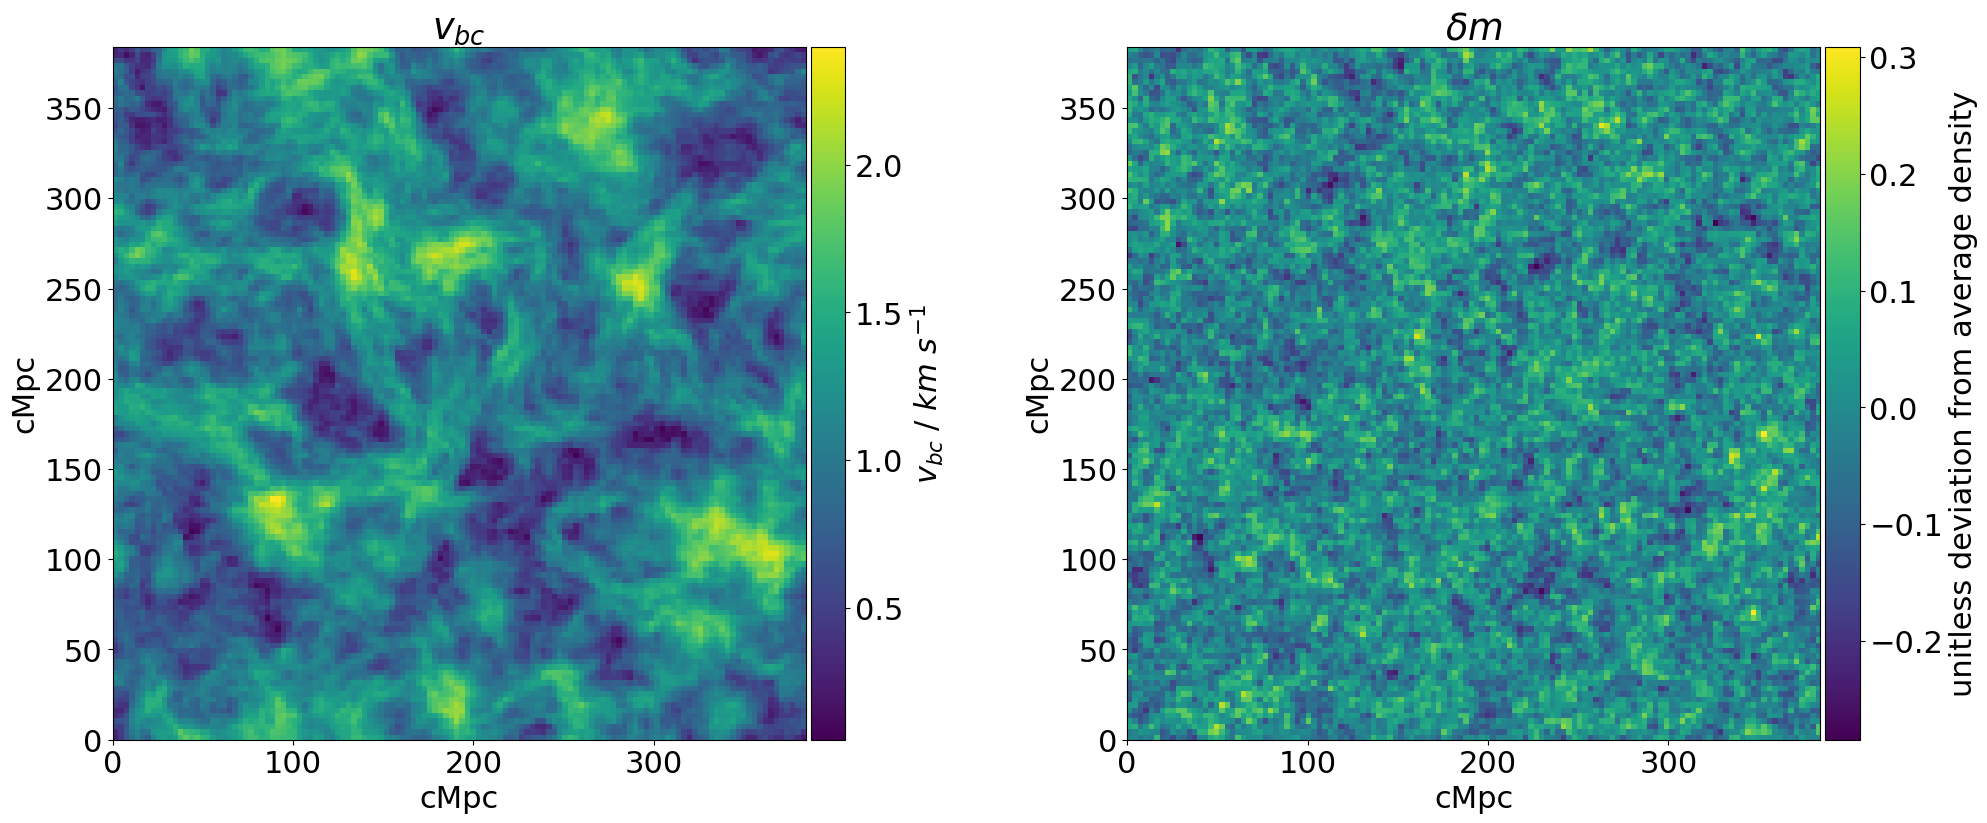
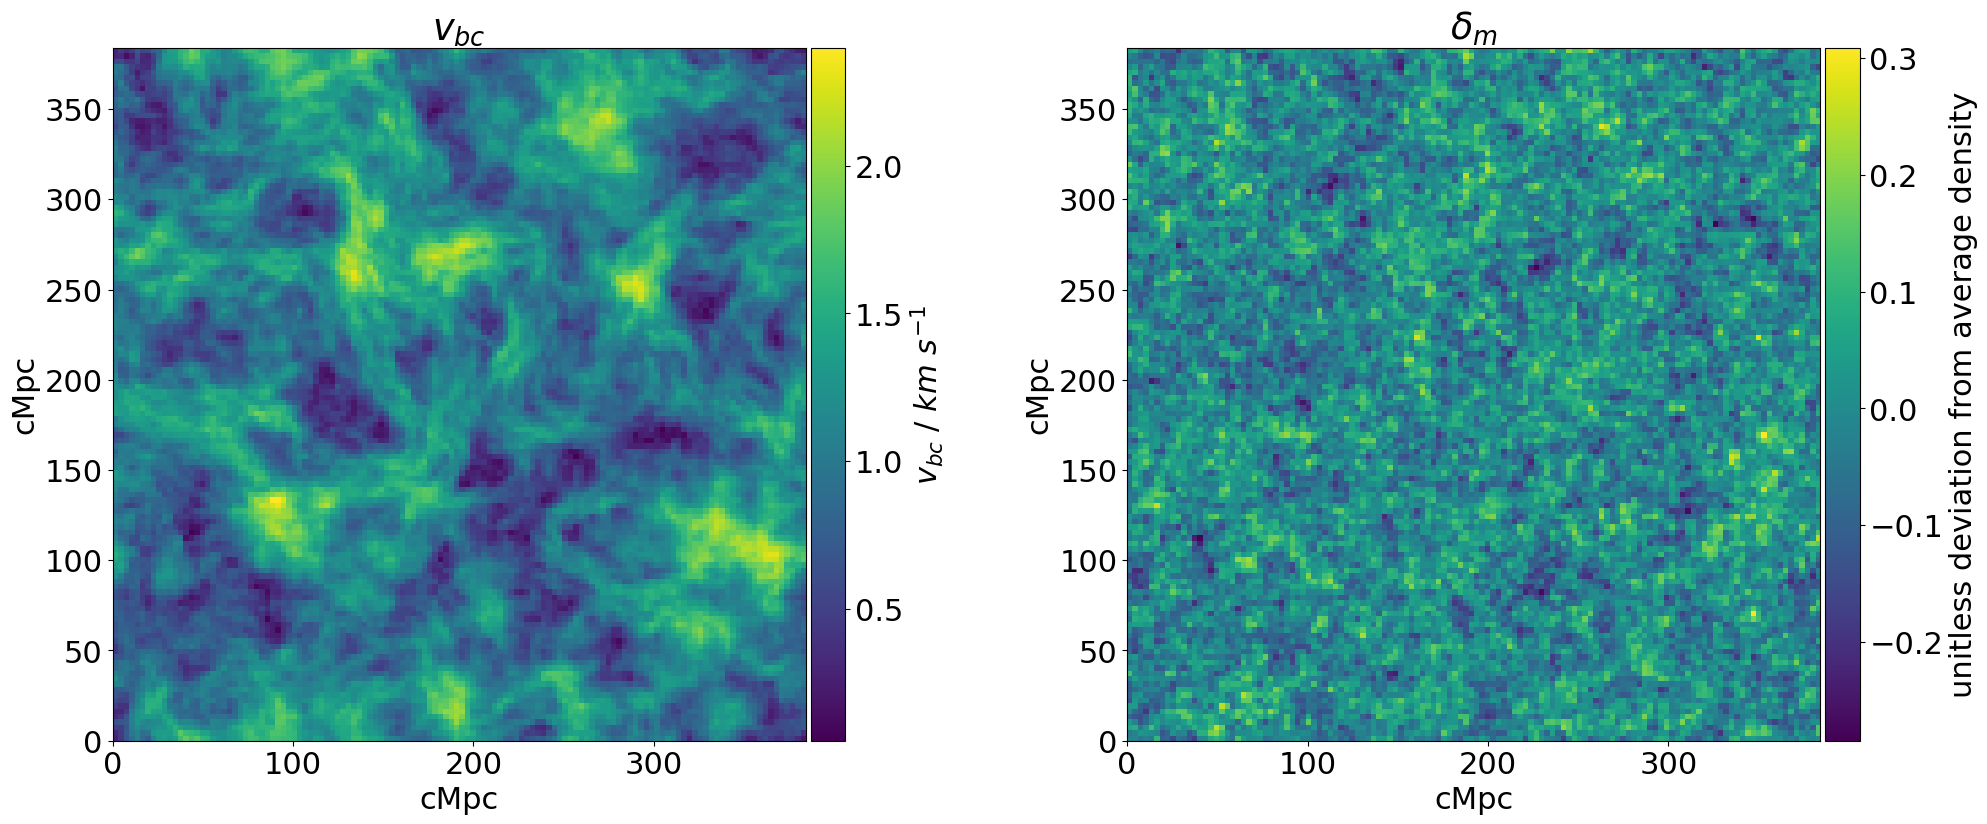
draft2 commit

diff --git a/main.tex b/main.tex
@@ -49,80 +49,89 @@
 \section{Introduction}
 % As the simplest atom, hydrogen is of significant importance to 21st century astrophysicists. 
 
-Because of its overwhelming dominance over other elements in its abundance, mapping the distribution of atomic hydrogen has the ability to inform the processes of structure formation, as well as shed light on the processes and events which occurred during the cosmic Dark Ages and Epoch of Reionization -- a period spanning between 375,000 years and 1 billion years after the big bang \cite{Pritchard_2012}. Conveniently, hydrogen occasionally emits photons of wavelength 21cm, resulting in the aptly named field of 21cm cosmology.
+% cosmic Dark Ages, the Cosmic Dawn, and the Epoch of Reionization -- a
+
+ % during which the first stars are born
+
+As the most abundant element in the Universe, mapping the distribution of atomic hydrogen has the ability to inform the processes of structure formation, as well as shed light on the processes and events which occurred during the period spanning between 375,000 years and 1 billion years after the big bang \cite{Pritchard_2012}. Conveniently, hydrogen occasionally interacts with photons of wavelength 21cm, allowing 21cm cosmologists to measure its density.
 
 % Conveniently, hydrogen occasionally emits photons, which can be measured from Earth. This emission is produced by a spin-flip transition -- if the atom first starts with its proton's spin and electron's spin aligned, the electron sometimes spontaneously flips so that its spin is anti-aligned with the protons. This results in a photon of wavelength 21cm, and hence the aptly named field of 21cm cosmology.
 
 % Combined with physical data such as those taken by the HERA, CHIME, and REACH, the simulations have the power to place constraints on viable theories.
 
-The 21cm signal is of such importance that numerous simulations have been written to predict its signal. One such simulation, named \code{21cmSPACE}\footnote{This name, which stands for 21-cm Semi-numerical Predictions Across Cosmic Epochs, was not given until mid-2023; older papers referring to this code do not include this name.} \cite{Fialkov_2014}, has been developed by the Cambridge Cosmic Dawn group and uses a semi-numerical approach to achieve balance between accuracy and efficiency. At the basic level, \code{21cmSPACE} takes a set of initial conditions and evolves them through time to provide the present-day predicted 21cm global signal and 21cm power spectrum. This signal depends on many factors, both local and non-local, which are all into account by employing the following \cite{gessey-jones_2024}:
+The 21cm signal is of such importance that numerous simulations have been written to predict its signal. One such simulation, \code{21cmSPACE}\footnote{This name, which stands for 21-cm Semi-numerical Predictions Across Cosmic Epochs, was not given until mid-2023; older papers referring to this code do not include this name.}, has been developed by the Cambridge Cosmic Dawn group \cite{Fialkov_2014}\cite{Visbal_2012}. At the basic level, \code{21cmSPACE} takes initial conditions and evolves them through time to provide the present-day predicted 21cm global signal and 21cm power spectrum, among other astrophysical observables. This is calculated through the following method \cite{gessey-jones_2024}:
 
 \begin{enumerate}
     \item A spatial volume is divided into cubical voxels of a specific side length.
 
-    \item Large-scale fields are initialized at the first time step from pre-specified initial conditions, or computed from values at the previous time step.
+    \item Large-scale fields such as the Lyman-Werner field are initialized at the first time step from initial conditions, or computed from the previous time step.
 
-    \item These large-scale fields are used by sub-grid model functions within each voxel to calculate local properties.
+    \item These large-scale fields are used by sub-grid models within each voxel to calculate local properties, such as star formation prescription.
 
-    \item The local properties are then used to inform the large-scale fields, propagated by non-local processes.
+    \item The local properties are then used to inform the large-scale fields, propagated by non-local processes such as radiative transfer.
 
-    \item Steps 2-4 are iterated until the simulation is complete.
+    \item Steps 2-4 are iterated until termination.
 \end{enumerate}
 
 % At present, the evolution timesteps of \code{21cmSPACE} is hard-coded between simulations. Operating in redshift space, the simulation begins at $z = 50$, at which point the Universe is described by linear perturbation theory with negligible halo and star formation. This permits the use of the \code{CAMB} and \code{Recfast} codes for the creation of initial conditions. The redshift then decreases by integer amounts until $z = 15$, at which point the timestep refines to a resolution of $\Delta z = 0.1$, decreasing until the simulation terminates at $z = 6$. 
 
-Temporally, \code{21cmSPACE} operates in redshift space, with hard-coded endpoints beginning at $z = 50$ and ending at $z = 6$. At $z = 50$, the Universe is described by linear perturbation theory with negligible halo and star formation, permitting the use of the \code{CAMB} and \code{Recfast} codes for the creation of initial conditions \cite{gessey-jones_2024}.
+Temporally, \code{21cmSPACE} operates in redshift space with hard-coded endpoints, evolving from $z = 50$ to $z = 6$. Across these redshifts, the Universe is described by linear perturbation theory. At $z = 50$, there is also negligible halo and star formation, permitting the use of the \code{CAMB}\footnote{The Code for Anisotropies in the Microwave Background is a code for calculating various cosmological quantities, including power spectra and transfer functions.} and \code{Recfast}\footnote{Recfast provides fast approximations for calculations of observables resulting from processes during the Epoch of Recombination, the era immediately preceding the period informed by 21cm astronomy.} codes for the creation of initial conditions \cite{gessey-jones_2024}.
 
-Spatially, the total size of \code{21cmSPACE} can be set to one of $384^3 \text{ cMpc}$, $768^3 \text{ cMpc}$, and $1536^3 \text{ cMpc}$ by changing the number of $3 \text{ cMpc}$ side-length voxels to $128^3$, $256^3$, and $512^3$ respectively \cite{dhandha_2022}. This allows \code{21cmSPACE} to be potentially useful in the forecasting for the SKA, whose beam covers a large enough square-angle at high redshifts to require this increased box size. The voxel side-length itself, however, is currently hard-coded, which is disadvantageous since a single execution of \code{21cmSPACE} at $512^3$ voxels costs upwards of 23000 CPU hours. On Cambridge's Wilkes3 HPC cluster, this costs almost $\pounds 400$ and takes approximately 2 weeks to complete \cite{dhandha_2022}. Therefore, although the use of \code{21cmSPACE} for SKA forecasting is possible in principle, the large number of simulations needed combined with the high cost of each simulation renders the package nonviable in practice.
+Spatially, the total size of \code{21cmSPACE} can be set to one of $384^3 \text{ cMpc}$, $768^3 \text{ cMpc}$, and $1536^3 \text{ cMpc}$ by changing the number of $3 \text{ cMpc}$ side-length voxels to $128^3$, $256^3$, and $512^3$ respectively \cite{dhandha_2022}. This largest simulation size of $1536^3 \text{ cMpc}$ allows \code{21cmSPACE} to be useful in the forecasting for the SKA \footnote{The Square Kilometre Array (SKA) experiment is a next generation 21cm project which expects to detect first light in 2027.}, whose beam covers a large enough square-angle at high redshifts to require this volume. The voxel side-length itself, however, is currently hard-coded, which is disadvantageous since requiring $512^3$ voxels to simulate a $1536^3 \text{ cMpc}$ box causes a single execution to cost upwards of 23000 CPU hours. Therefore, although it is possible to use \code{21cmSPACE} to forecast for experiments such as the SKA, the large number of simulations needed to adequately explore the parameter space of initial conditions renders the package nonviable in practice.
 
-Additionally, the initial conditions are currently calculated from fixed parameters. In particular, \code{21cmSPACE} assumes the Planck 2013 best-fit $\Lambda$CDM model as a fixed cosmology \cite{gessey-jones_2024}. The initial overdensity field $\delta m$ and baryon-dark matter relative velocity $v_{bc}$ are computed from the matter power spectrum and velocity power spectrum as output from \code{CAMB} and the initial gas temperature and ionization fraction are calculated from the outputs provided by \code{Recfast}, both assuming Planck 2013.
+ % On Cambridge's Wilkes3 HPC cluster, this costs hundreds of GBP, takes approximately 2 weeks to complete, and contributes $175 \text{ gCO}_2\text{eq}$ of greenhouse gases \cite{dhandha_2022}.
 
-The goals of this research project are twofold: 1. to allow the variation of voxel size in the spatial division of the simulation box, as well as 2. to allow implementation of cosmologies other than Planck 2013 in the initialization of starting values. Success in the first objective will enable \code{21cmSPACE} to simulate large spatial volumes with fewer voxels, which will drastically decrease runtime and enable \code{21cmSPACE} to be used for SKA forecasting. Of course, changing the voxel size will inevitably alter the final result of the simulation; this will therefore need to be rigorously tested as part of the project. Achieving the second objective will create a pipeline from a given cosmology to a predicted 21cm signal. Hence, if the predicted signal does not fall within the errors for current experimental data, the cosmology can be rejected. In other words, by making possible the variation of cosmology, \code{21cmSPACE} can be used to verify or reject theories.
+Additionally, the initial conditions are currently calculated from fixed parameters. In particular, \code{21cmSPACE} assumes the Planck 2015 best-fit $\Lambda$CDM model as a fixed cosmology \cite{Planck_2016}. The initial overdensity field $\delta_m$ and baryon-dark matter relative velocity $v_{bc}$ are computed \cite{Fialkov_2012} from the matter power spectrum and velocity power spectrum as output from \code{CAMB}, and the initial gas temperature and ionization fraction are calculated from the outputs provided by \code{Recfast}, both assuming Planck 2015.
+
+\section{Project Objectives}
+
+The goals of this research project are twofold: 1. to allow the variation of voxel size in the spatial division of the simulation, as well as 2. to allow implementation of cosmologies other than Planck 2015 in the initialization of starting values. 
+
+Success in the first objective will enable \code{21cmSPACE} to simulate large spatial volumes with fewer voxels,drastically decreasing runtime and enabling \code{21cmSPACE} to be used for SKA forecasting. Of course, changing the voxel size can alter the final result of the simulation; this will therefore need to be rigorously tested as part of the project to ensure that accuracy in the observables is unaffected. 
+
+Achieving the second objective will create a pipeline from a given cosmology to a predicted 21cm signal. Hence, if the predicted signal does not fall within the errors for current experimental data, the cosmology can be rejected. In other words, by making possible the variation of cosmology, \code{21cmSPACE} can be used to verify or reject theories.
 
 \section{Project progress}
-Progress has primarily been focused on achieving the second objective. The initial conditions of \code{21cmSPACE} at $z = 50$ are derived from four quantities: the matter power spectrum and velocity power spectrum as generated by  \code{CAMB}, and the hydrogen ionization history and matter temperature history as generated by \code{Recfast}. 
+
+
+% The initial conditions of \code{21cmSPACE} at $z = 50$ are derived from four quantities: the matter power spectrum and velocity power spectrum as generated by  \code{CAMB}, and the hydrogen ionization history and matter temperature history as generated by \code{Recfast}. 
 
 % These power spectra and histories must then be used to calculate a series of precomputed grids for input into the initialization of \code{21cmSPACE}. These precomputed grids contain, for each cell, the following four quantities: the matter overdensity $\delta m$, the baryon-dark matter relative velocity $v_{bc}$, the matter temperature, and the ionization fraction. It is these precomputed grids that feed directly into \code{21cmSPACE} for initialization.
 
 % The process then consists of two macroscopic steps: the cosmological inputs to \code{CAMB} and \code{Recfast} are first changed, which alters the outputs of these codes; these outputs must then be made compatible with the inputs of \code{21cmSPACE} such that \code{21cmSPACE} can be executed using the specified cosmology. 
 
-As of now, code has been developed to alter the cosmological inputs to \code{CAMB} and \code{Recfast}, resulting in the possibility of conveniently recalculating the functions specifying the four quantities required for computing initial conditions. The interactions between functions are properly object-oriented such that new cosmologies can be defined simply by creating an instance of the \code{cosmology} class, as shown below: 
+Progress has primarily been focused on achieving the second objective. As of now, code has been developed to alter the cosmological inputs to \code{CAMB} and \code{Recfast}, making it convenient to recalculate initial conditions. The interactions between functions are properly object-oriented such that new cosmologies can be defined simply by creating an instance of the \code{cosmology} class, which takes the following parameters at their present-day values as  as initialization variables:
 
-\begin{verbatim}
-    from astropy.cosmology import Planck13
+\begin{itemize}
+    \item  Hubble parameter $H_0$
 
-    default_cosmology = Planck13
-    
-    class cosmology:
-        def __init__(self, 
-                     name=default_cosmology.name, 
-                     h=default_cosmology.h, 
-                     H0=default_cosmology.H0, 
-                     Ob0=default_cosmology.Ob0, 
-                     Odm0=default_cosmology.Odm0, 
-                     Ok0=default_cosmology.Ok0, 
-                     Tcmb0=default_cosmology.Tcmb0.value):
-            
-            self.name = name
-            self.h = h
-            self.H0 = H0
-            self.Ob0 = Odm0
-            self.Ok0 = Ok0
-            self.Tcmb0 = Tcmb0 # must be dictionary type. 
-                               # key is unimportant but 
-                               # astropy defaults to 'temperature'
-\end{verbatim}
+    \item baryonic matter density $\Omega_{\text{b},0}$
+
+    \item dark matter density $\Omega_{\text{dm},0}$
+
+    \item effective curvature density $\Omega_{\text{k},0}$
+
+     \item CMB temperature $T_{\text{cmb}, 0}$.
+\end{itemize}
 
 This class is primarily organizational, written with both the intention of emulating a subset of the attributes attached to \code{Astropy} pre-defined cosmologies of datatype \code{FlatLambdaCDM} class, as well as being compatible with code written for changing \code{CAMB} and \code{Recfast} parameters. Changing these cosmologies results in altered initial conditions for \code{CAMB} outputs, as shown in Fig. \ref{fig:camb_output_plots}. In particular, voxel side-lengths of $3 \text{ cMpc}$ correspond to $k$ of order $10^{-1} \text{Mpc}^{-1}$ with larger side-lengths, as is one aim of this project, corresponding to smaller $k$ values where the differences induced by varied cosmologies are even more significant. On the other hand, varied cosmology has no effect on the ionization fraction nor the matter temperature, as shown in Fig. \ref{fig:recfast_output_plots}. 
 
-Taking the \code{CAMB} power spectra, \code{21cmSPACE} can be used to generate the initial Gaussian random fields for initialization. Taking slices of the 3D boxes allows visualization of these fields as in Fig. \ref{fig:initial_condition_grid}.
+Taking the \code{CAMB} power spectra, \code{21cmSPACE} can be used to generate the Gaussian random fields for initialization. Taking slices of the 3D boxes allows visualization of these fields as in Fig. \ref{fig:initial_condition_grid}.
+
+\section{Upcoming work}
+
+Having invested time learning the usage of \code{CAMB} and \code{Recfast} for generating initial conditions, actual implementation of the initial conditions into the \code{21cmSPACE} MATLAB code by making \code{CAMB} and \code{Recfast} outputs compatible with \code{21cmSPACE} inputs may now follow naturally. The code will also have to be carefully examined to ensure that the effects of variable cosmology are correctly propagated, such as in the calculations of halo abundance. This will ideally be completed by early Lent term.
+
+As well as this, implementation of variable voxel size will be the next step, followed by rigorous testing of the effects these changes have on the predicted signal. Ideally, this will be completed about halfway through Lent term, leaving ample time for writing up.
+
+Finally, if time permits, the viability of upscaling these lower-resolution simulations through diffusion models can be explored, possibly recovering the same detail in the final signal at a fraction of the computational cost.
 
 \begin{figure}[!htbp]
      \centering
      \begin{subfigure}{0.45\textwidth}
          \centering
          \includegraphics[width=\textwidth]{images/vbc_varied_redshift.png}
-         \caption{$v_{bc}$ for various redshifts assuming Planck 2013}
+         \caption{$v_{bc}$ for various redshifts assuming Planck 2015}
          \label{fig:vbc_varied_redshift}
      \end{subfigure}
      \hfill
@@ -136,7 +145,7 @@ Taking the \code{CAMB} power spectra, \code{21cmSPACE} can be used to generate t
      \begin{subfigure}{0.45\textwidth}
          \centering
          \includegraphics[width=\textwidth]{images/matter_power_spectrum_varied_redshift.png}
-         \caption{Matter power spectrum for various redshifts assuming Planck 2013}
+         \caption{Matter power spectrum for various redshifts assuming Planck 2015}
          \label{fig:matter_power_spectrum_varied_redshift}
      \end{subfigure}
      \hfill
@@ -146,7 +155,7 @@ Taking the \code{CAMB} power spectra, \code{21cmSPACE} can be used to generate t
          \caption{Matter power spectrum for various cosmologies at redshift $z = 1000$}
          \label{fig:matter_power_spectrum_varied_cosmology}
      \end{subfigure}
-    \caption{Figure \ref{fig:vbc_varied_redshift} shows the $v_{bc}$ power spectrum for the Planck 2013 best fit model (the default cosmology in \code{21cmSPACE}) for various redshifts. Figure \ref{fig:vbc_varied_cosmology} shows the $v_{bc}$ power spectrum for various cosmologies imported from \code{Astropy}. These figures are plotted outputs from \code{CAMB}.}
+    \caption{Figure \ref{fig:vbc_varied_redshift} shows the $v_{bc}$ power spectrum for the Planck 2015 best fit model (the default cosmology in \code{21cmSPACE}) for various redshifts. Figure \ref{fig:vbc_varied_cosmology} shows the $v_{bc}$ power spectrum for various cosmologies imported from \code{Astropy}. These figures are plotted outputs from \code{CAMB}.}
     \label{fig:camb_output_plots}
 \end{figure}
 
@@ -179,9 +188,6 @@ Taking the \code{CAMB} power spectra, \code{21cmSPACE} can be used to generate t
 \end{figure}
 
 
-\section{Upcoming work}
-
-Having invested time learning the usage of \code{CAMB} and \code{Recfast} for generating initial conditions, actual implementation of the initial conditions into the \code{21cmSPACE} MATLAB code by making \code{CAMB} and \code{Recfast} outputs compatible with \code{21cmSPACE} inputs may now follow naturally. As well as this, implementation of variable voxel size will be the next step, followed by rigorous testing of the effects of these changes on the predicted signal. Finally, if time permits, the viability of upscaling these lower-resolution simulations through diffusion models can be explored, possibly recovering the same detail in the final signal at a fraction of the computational cost.
 
 % \begin{acknowledgments}
 % K.W. thanks...
